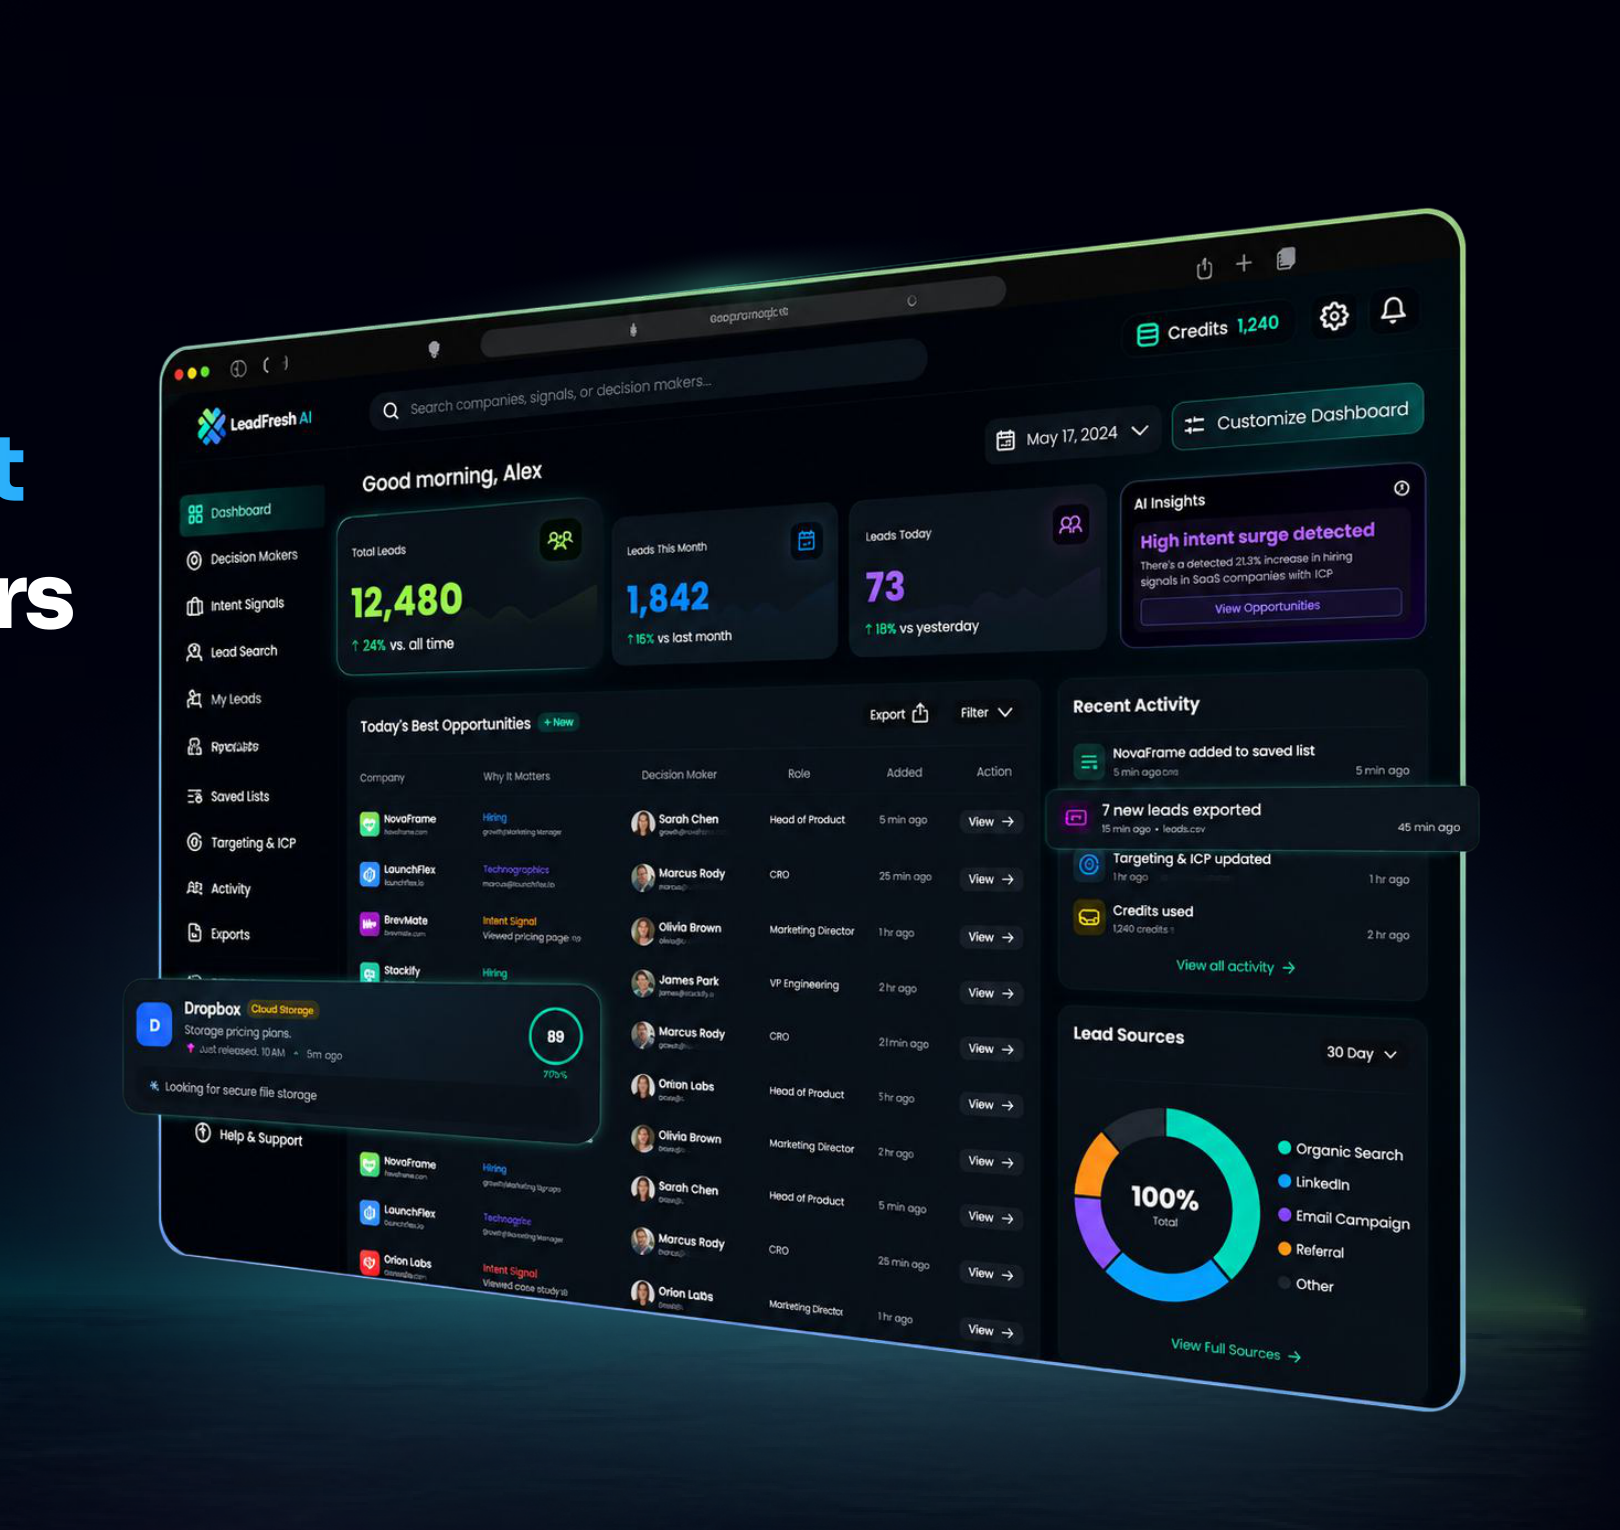
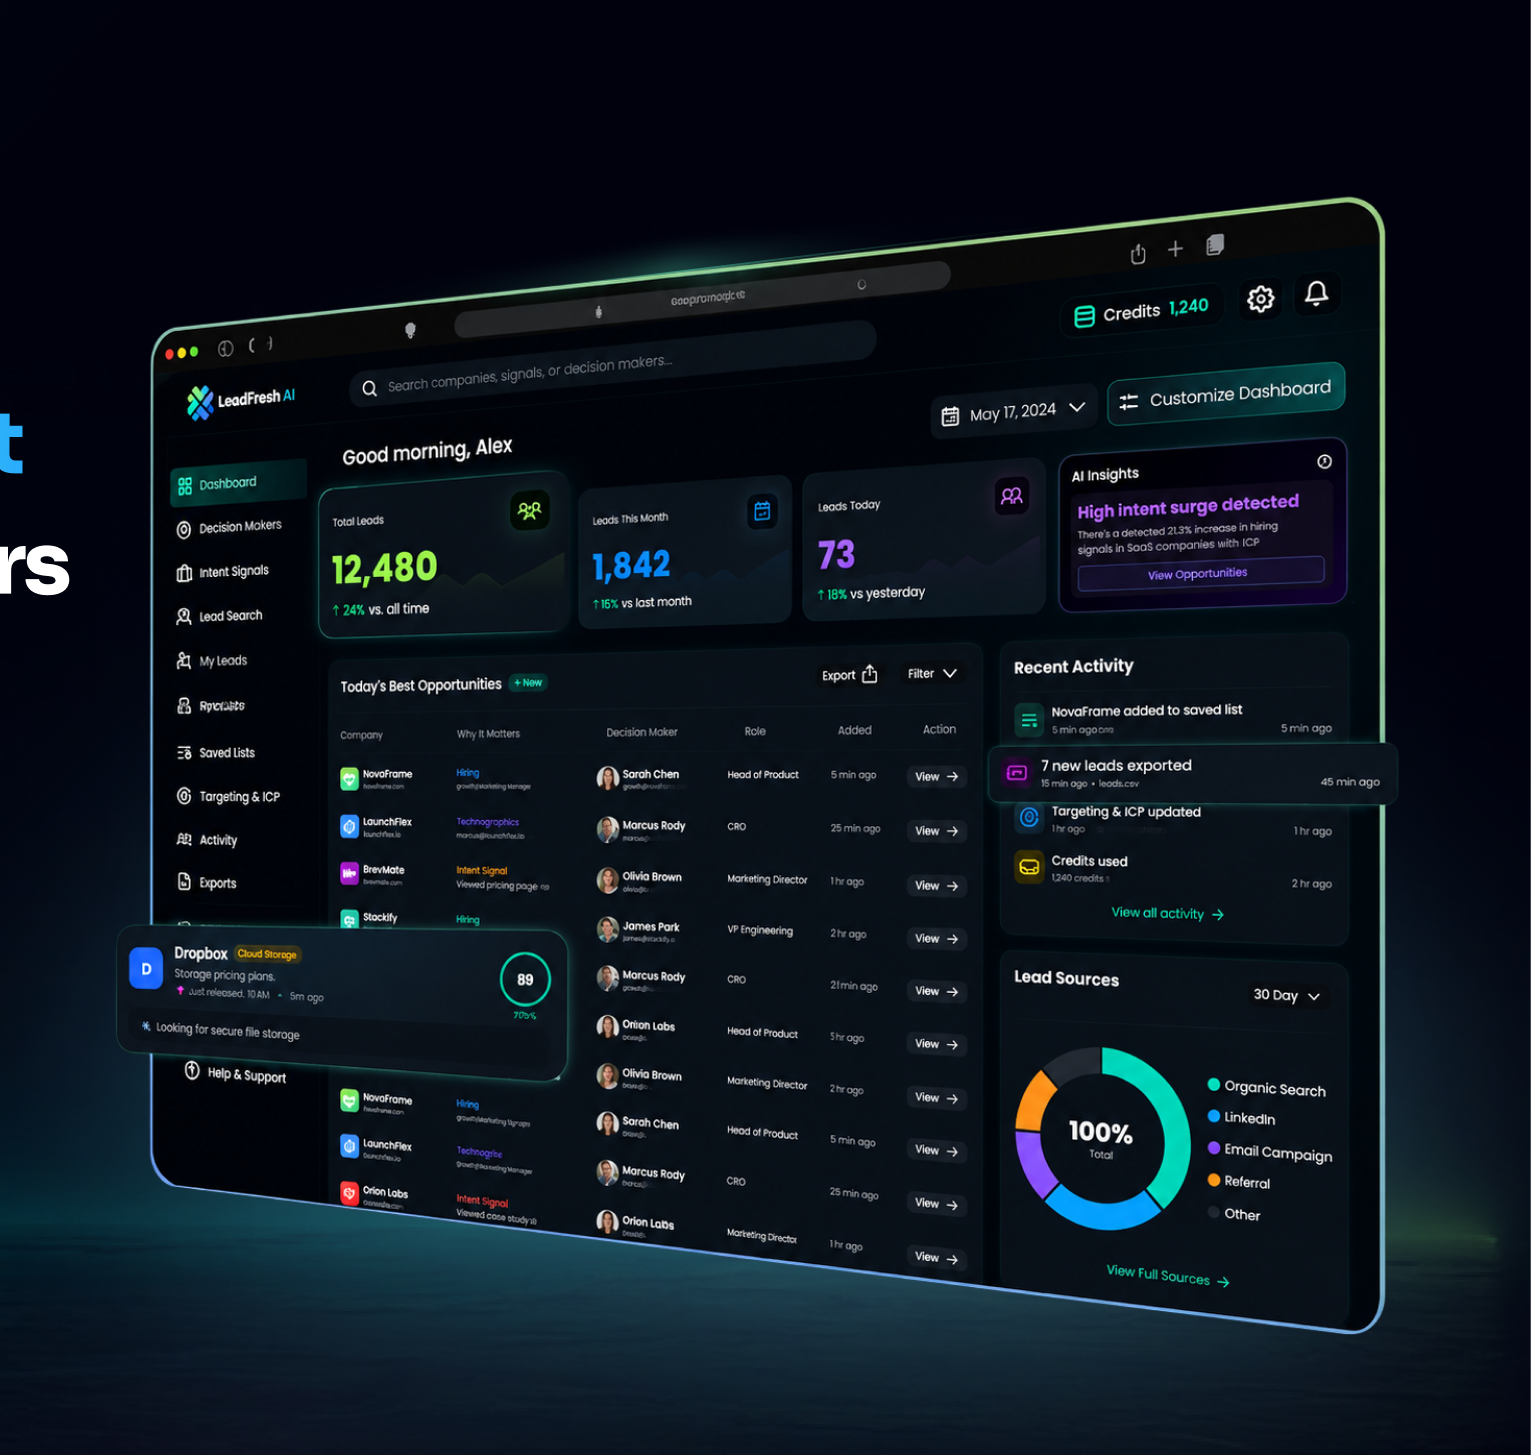
Replace the hero dashboard image with the local high-resolution crop.

diff --git a/index.html b/index.html
@@ -717,7 +717,7 @@
           </div>
         </div>
         <div class="hero-visual">
-          <img src="assets/hero-dashboard.png" alt="LeadFresh AI dashboard preview" />
+          <img src="assets/hero-dashboard.png?v=2" alt="LeadFresh AI dashboard preview" />
         </div>
       </div>
     </section>
